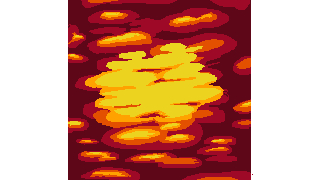
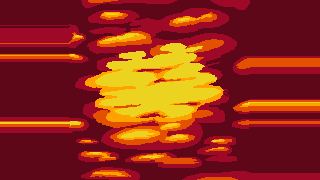
Add wave-filter for lava and camera.

diff --git a/src/scripts/scenes/MainScene.ts b/src/scripts/scenes/MainScene.ts
@@ -6,6 +6,7 @@ import { Player1 } from "../components/Player1";
 import { Player2 } from "../components/Player2";
 import { Dragon } from "../components/Dragon";
 import { Egg } from "../components/Egg";
+import BendWaves from "../pipelines/BendWavesPostFX";
 
 
 export class MainScene extends BaseScene {
@@ -14,7 +15,7 @@ export class MainScene extends BaseScene {
 
 	lava: Phaser.GameObjects.Image;
 	ground: Phaser.GameObjects.Image;
-	myImage: Phaser.GameObjects.Image;
+	pika: Phaser.GameObjects.Image;
 	particles: Particles;
 
 	player1: Player1;
@@ -41,14 +42,15 @@ export class MainScene extends BaseScene {
 		// Adding an image
 		// https://rexrainbow.github.io/phaser3-rex-notes/docs/site/image/
 		this.lava = this.add.image(this.CX, this.CY, "lava");
-		this.myImage = this.add.image(this.CX, this.CY, "pika");
+		this.lava.setPostPipeline(BendWaves);
+		this.pika = this.add.image(this.CX, this.CY, "pika");
 		this.ground = this.add.image(this.CX, this.CY, "ground");
-		this.myImage.setTint(0xFF0000);
-		this.myImage.setBlendMode(Phaser.BlendModes.ADD);
-		this.myImage.setAlpha(0.2);
+		this.pika.setTint(0xFF0000);
+		this.pika.setBlendMode(Phaser.BlendModes.ADD);
+		this.pika.setAlpha(0);
 		this.containToScreen(this.lava);
 		this.containToScreen(this.ground);
-		this.containToScreen(this.myImage);
+		this.containToScreen(this.pika);
 
 		// Create Player-object and pass this/scene to it
 		this.player1 = new Player1(this, 0.1*this.W, this.CY);
@@ -114,6 +116,9 @@ export class MainScene extends BaseScene {
 			this.dragon.SHOOTING_TIMER = 3.0;
 			this.dragon.following = this.player1;
 
+			this.lava.resetPostPipeline();
+			this.cameras.main.setPostPipeline(BendWaves);
+
 		}
 
 		this.dragon.shootTimer = this.dragon.SHOOTING_TIMER - 2;
@@ -158,7 +163,7 @@ export class MainScene extends BaseScene {
 		this.player2.update(time, delta);
 		this.dragon.update(time, delta);
 
-		this.myImage.setAlpha(0.2 + 0.1 * Math.sin(5*time/1000));
+		this.pika.setAlpha(0.1 + 0.1 * Math.sin(4*time/1000));
 
 		this.particles.update(time, delta);
 
@@ -204,7 +209,7 @@ export class MainScene extends BaseScene {
 
 
 		// Smarter dragon
-		if (this.level >= 2 || this.dragon.mood == "angry") {
+		if (this.dragon.mood == "angry") {
 			if (this.dragon.following == this.player1) {
 				if (this.player2.heldEgg && !this.player1.heldEgg) {
 					this.dragon.following = this.player2;

diff --git a/src/scripts/pipelines/BendWavesPostFX.js b/src/scripts/pipelines/BendWavesPostFX.js
@@ -1,0 +1,41 @@
+const fragShader = `
+#define SHADER_NAME BEND_WAVES_FS
+
+precision mediump float;
+
+uniform float     uTime;
+uniform sampler2D uMainSampler;
+varying vec2 outTexCoord;
+
+void main( void )
+{
+    vec2 uv = outTexCoord;
+    uv.x += 0.002 * sin((uv.y + (uTime * 0.1)) * 30.0);
+    vec4 texColor = texture2D(uMainSampler, uv);
+    gl_FragColor = texColor;
+}
+`;
+
+export default class BendWaves extends Phaser.Renderer.WebGL.Pipelines.PostFXPipeline
+{
+    constructor (game)
+    {
+        super({
+            game,
+            renderTarget: true,
+            fragShader,
+            uniforms: [
+                'uProjectionMatrix',
+                'uMainSampler',
+                'uTime',
+            ]
+        });
+        this._time = 0;
+    }
+
+    onPreRender ()
+    {
+        this._time += 0.005;
+        this.set1f('uTime', this._time);
+    }
+}

diff --git a/src/scripts/scenes/PreloadScene.ts b/src/scripts/scenes/PreloadScene.ts
@@ -2,6 +2,7 @@ import { BaseScene } from "./BaseScene";
 import { images, spritesheets } from "../assets";
 import { GrayScalePostFilter } from "../pipelines/GrayScalePostFilter";
 import { BlurPostFilter } from "../pipelines/BlurPostFilter";
+import BendWaves from "../pipelines/BendWavesPostFX";
 
 
 export class PreloadScene extends BaseScene {
@@ -15,6 +16,7 @@ export class PreloadScene extends BaseScene {
 		if (renderer.pipelines) {
 			renderer.pipelines.addPostPipeline("GrayScalePostFilter", GrayScalePostFilter);
 			renderer.pipelines.addPostPipeline("BlurPostFilter", BlurPostFilter);
+			renderer.pipelines.addPostPipeline("BendWaves", BendWaves);
 		}
 	}
 
